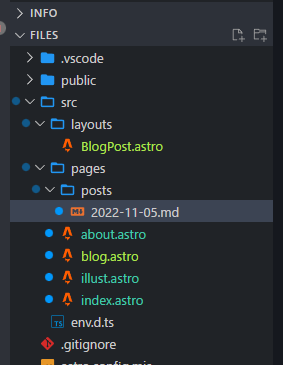
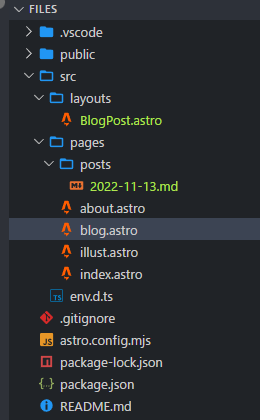
ひとまず書き上げ

diff --git a/src/pages/posts/post-8.md b/src/pages/posts/post-8.md
@@ -5,7 +5,7 @@ required_time: '15分'
 id: 8
 ---
 
-サイトにブログ記事を投稿できるようにします。
+サイトにブログ記事を投稿できるようにしてみましょう。
 
 <br>
 
@@ -13,30 +13,32 @@ id: 8
 
 ![](/image/post-8/dir.png)
 
-必要な作業は以下の通りです。
+上記の画像が完成系です。必要な作業は以下の通りです。
 
 - `src` フォルダ内に、`layouts` フォルダを作成する
 - `layouts` フォルダ内に `BlogPost.astro` ファイルを作成する
 - `pages` フォルダ内に、`posts` フォルダを作成する
-- `posts` フォルダ内に `2022-11-05.md` ファイルを作成する
-  - ファイル名は任意で大丈夫です
+- `posts` フォルダ内に `2022-11-13.md` ファイルを作成する
+  - ファイル名は任意で大丈夫です（拡張子は `.md` としてください）
 - `pages` フォルダ内に、`blog.astro` ファイルを作成する
 
 フォルダは以下のマークをクリックすることで作成できます。
 
 ![](/image/post-8/pages.png)
 
+この時点では、作成したファイルの内容は空のままで問題ありません。
+
 <br>
 
 # # ブログ記事を書く
 
-`2022-11-05.md` ファイルに内容を書き込みます。
+`2022-11-13.md` ファイルに内容を書き込みます。
 
 ~~~md
 ---
 layout: "../../layouts/BlogPost.astro"
 title: "はじめての記事"
-date: "2022-11-05"
+date: "2022-11-13"
 ---
 
 # はじめに
@@ -50,7 +52,7 @@ https://do-it-yourself.vercel.app/
 ![画像の説明](/yourself.png)
 ~~~
 
-ブログ記事はマークダウン(`.md`) 記法で書きます。マークダウン記法については、各々調べてみてください。
+ブログ記事はマークダウン(`.md`) 記法で書きます。マークダウンは、文書を記述するための言語のひとつです。記法はとてもシンプルなので、各々調べてみてください。
 
 `.md` ファイルだとページの見た目を設定できないので、`layout:` でページのレイアウトを設定するファイルを参照しています。 
 
@@ -58,9 +60,7 @@ https://do-it-yourself.vercel.app/
 
 # # レイアウトの設定
 
-先ほど作った `BlogPost.astro` ファイルを編集します。
-
-サイトに表示されるブログ記事は、このファイルを元に描画されることになります。
+先ほど作った `BlogPost.astro` ファイルを編集します。以下のコードをコピペしてください。
 
 ~~~astro
 ---
@@ -83,13 +83,14 @@ const { content: { title, date } } = Astro.props;
       <slot />
     </article>
     <br>
-    <a href="/">Home</a>
-    <a href="/blog">Blog</a>
+    <a href="/blog">blog</a>
 	</body>
 </html>
 ~~~
 
-`const { content: { title, date } } = Astro.props;` で `.md` ファイルから `title` と `date` の情報を受け取っています。 
+サイトに表示されるブログ記事は、このファイルを元に描画されることになります。
+
+`const { content: { title, date } } = Astro.props;` で `.md` ファイルに書いた `title` と `date` の情報を受け取っています。 
 
 `<slot />` のところに、`.md` ファイルに書いた本文が埋め込まれます。
 
@@ -123,7 +124,7 @@ const allPosts = await Astro.glob('../pages/posts/*.md')
 </html>
 ~~~
 
-`const allPosts = await Astro.glob('../pages/posts/*.md')` では `posts` フォルダにあるマークダウン形式のファイルを全て読み込んでいます。
+`const allPosts = await Astro.glob('../pages/posts/*.md')` で、 `posts` フォルダにあるマークダウン形式のファイルを全て読み込んでいます。
 
 それをループを回して、リスト形式で並べている... みたいなことをやっています。これは呪文のようなものなので、理解しなくても大丈夫なやつです。
 
@@ -146,7 +147,7 @@ const allPosts = await Astro.glob('../pages/posts/*.md')
 		<link rel="icon" type="image/svg+xml" href="/favicon.svg" />
 		<meta name="viewport" content="width=device-width" />
 		<meta name="generator" content={Astro.generator} />
-		<title>Astro</title>
+		<title>n1sym Page</title>
 		<style >
 		</style>
 	</head>
@@ -170,4 +171,4 @@ const allPosts = await Astro.glob('../pages/posts/*.md')
 
 # # 公開しているページに変更を反映させる
 
-記事が表示されていることが確認できたら、Commit ボタンで公開ページにも反映させてみましょう。
+記事が表示されていることが確認できたら、Commit ボタンをクリックして公開ページにも反映させてみましょう。

diff --git a/src/pages/posts/post-9.md b/src/pages/posts/post-9.md
@@ -1,26 +1,125 @@
 ---
 layout: "../../layouts/BlogPost.astro"
-title: 'サイトのURLを変更する'
-required_time: '5分'
+title: 'デザインを調整する'
+required_time: '15分'
 id: 9
 ---
 
-サイトのURLは変更することができます。
+最後に、全体のデザインを調整してみましょう。
 
-https://vercel.com/dashboard から今回作ったプロジェクトを選択します。
+<br>
 
-画面左上あたりにある Settings を選択します。
+# # ページ全体にスタイルを当てる準備
 
-![](/image/post-9/settings.png)
+ページ全体にスタイルを当てるために、新しいファイルを作成します。
 
-左メニューの Domains を選択し、ドメインパネルの Edit ボタンをクリックします。
+- `src` フォルダ内に、`styles` フォルダを作成する
+- `styles` フォルダ内に `global.css` ファイルを作成する
 
-![](/image/post-9/edit.png)
+![](/image/post-9/styles.png)
 
-編集メニューが開くので、Domain (URL) を変更してみます。
+そして、`global.css` に書いた設定を各ページに適用するため、
 
-ただし、`.vercel.app` のところは変更できないのでご注意ください
+`import '../styles/global.css';` というコードを、
 
-![](/image/post-9/domain.png)
+`index.astro`, `about.astro`, `blog.astro`, `illust.astro`, `BlogPost.astro` の
 
-Save ボタンを押して変更を反映させます。
+2行目（`---` と `---` の間）に追記します。
+
+~~~astro
+---
+import '../styles/global.css';
+---
+~~~
+
+<br>
+
+# # デザインの調整
+
+`global.css` を編集します。
+
+~~~css
+body {
+	margin: auto;
+	padding: 20px;
+	max-width: 720px;
+	text-align: left;
+	background-color: #fff;
+	word-wrap: break-word;
+	overflow-wrap: break-word;
+	line-height: 1.5;
+	color: rgb(27, 26, 26);
+}
+
+img {
+	max-width: 100%;
+	height: auto;
+}
+
+blockquote {
+	border-left: 3px solid #999;
+	color: rgb(71, 71, 71);
+	padding: 2px 0px 2px 20px;
+	margin: 0px;
+	font-style: italic;
+}
+~~~
+
+それぞれの項目を見ていきます。
+
+# ## body
+
+まずは `<body>` タグに当てるスタイルについてです。`<body>` タグはざっくりとページの内容全てを表しているので、ここで設定したスタイルはページ全体に適用されます。
+
+各要素の意味は以下のような感じです。
+
+- `margin` : 外側の余白。`auto` を指定するとよしなに調整してくれる
+- `padding` : 内側の余白
+- `max-width` : 最大幅。このサイズ以上にはならない
+- `text-align` : 要素の寄せ。今回は左寄せ(`left`) を指定
+- `background-color` : 背景色
+- `word-wrap`: 文字の折り返しタイミングの設定
+- `overflow-wrap`: 文字の折り返しタイミングの設定
+- `line-height`: 文字の高さ
+- `color`: 文字の色
+
+ブラウザ上でカラーコードにカーソルを合わせると、カラーパレットが表示されるのでそこで色を設定することもできます。
+
+![](/image/post-9/color.png)
+
+# ## img
+
+`<img>` タグは画像に関するタグです。
+
+~~~css
+img {
+	max-width: 100%;
+	height: auto;
+}
+~~~
+
+初期設定のままだと、大きい画像がそのまま表示されてしまいます。`body` のスタイルで設定した最大幅 (`max-width`) に合わせて自動でリサイズされるようになってほしいので、上記の設定を行っています。
+
+# ## blockquote
+
+`<blockquote>` は引用を表現するタグです。初期設定だとインデントされるだけなので、それっぽいデザインにしておきます。
+
+![](/image/post-9/blockquote.png)
+
+~~~css
+blockquote {
+	border-left: 3px solid #999;
+	color: rgb(71, 71, 71);
+	padding: 2px 0px 2px 20px;
+	margin: 0px;
+	font-style: italic;
+}
+~~~
+
+<br>
+
+# # 公開しているページに変更を反映させる
+
+スタイルは無限にこだわることができるので、一旦ここまでにしておきます。
+
+Commit ボタンをクリックして公開ページにも反映させてみましょう。

diff --git a/src/pages/posts/post-6.md b/src/pages/posts/post-6.md
@@ -39,12 +39,15 @@ id: 6
 	<body>
 		<h1>About</h1>
 		<p>n1sym と申します。</p>
+    <p><a href="https://twitter.com/n1sym">Twitter</a> をやっています。</p> 
     <a href="/">Home</a>
 	</body>
 </html>
 ~~~
 
-ちょっとややこしいのですが、`href="/"` は `index.astro` へのリンクを表しています。
+`<a>` タグはリンクを表すものです。`href` でURLを指定することができます。
+
+ちょっとややこしいのですが、`href="/"` の `/` は `index.astro` を指しています。つまりこれはトップページへのリンクになっています。
 
 `index.astro` にもページ内リンクを配置します。
 
@@ -57,7 +60,7 @@ id: 6
 		<link rel="icon" type="image/svg+xml" href="/favicon.svg" />
 		<meta name="viewport" content="width=device-width" />
 		<meta name="generator" content={Astro.generator} />
-		<title>Astro</title>
+		<title>n1sym Page</title>
 		<style>
 		</style>
 	</head>
@@ -75,4 +78,4 @@ id: 6
 
 # # 公開しているページに変更を反映させる
 
-新しいページを作成できたら、Commit ボタンで公開ページにも反映させてみましょう。
+新しいページを作成できたら、Commit ボタンをクリックして公開ページにも反映させてみましょう。

diff --git a/src/pages/posts/post-11.md b/src/pages/posts/post-11.md
@@ -1,0 +1,26 @@
+---
+layout: "../../layouts/BlogPost.astro"
+title: 'おわりに'
+required_time: '1分'
+id: 11
+---
+
+これにて終了です。お疲れさまでした！
+
+いかがでしたでしょうか。個人サイト制作は本当に奥が深く、やろうと思えば本当に色々なことができます。
+
+こんなことがやりたいけど、どうやればいいのか分からない...といったようなことがありましたら、お気軽にコメント欄に書き込みください。
+
+<br>
+
+# # おまけ話
+
+このページは https://diy-anime.com/ に影響されて製作されました。
+
+> DIYとは、お金を払って他者（業者）にやらせるのではなく、自身で（つまり自分の身体を使って）何かを作ったり、修理したり、装飾したりする活動のことである。「自分でできることは自分でやろう」という理念のもとに行う諸活動である。
+
+DIY というと家具作りなどが連想されますが、個人サイト作りも立派な DIY だと思います。
+
+このページを通して、モノ作りの楽しさを感じてもらえたら、とても嬉しく思います。
+
+そしてDIYアニメはとても良い作品なので、おすすめです。

diff --git a/src/pages/posts/post-1.md b/src/pages/posts/post-1.md
@@ -57,6 +57,6 @@ https://astro.new/minimal?on=stackblitz
 </html>
 ~~~
 
-この内容は、右側のプレビューされている画面と対応しています。つまり、今のプレビュー画面は `index.astro` の内容を表示しているということになります。
+この内容は、右側のプレビューされている画面と対応しています。つまり、今のプレビュー画面は `index.astro` の内容を表示しているということです。
 
-`<h1>Astro</h1>` の Astro という文字を任意の文字に変更してみましょう。プレビュー画面に内容が反映されるはずです。（その他の htmlタグについては今は考えなくても大丈夫です）
+`<h1>Astro</h1>` の Astro という文字を任意の文字に変更してみましょう。プレビュー画面に内容が反映されるはずです。

diff --git a/src/pages/posts/post-10.md b/src/pages/posts/post-10.md
@@ -1,8 +1,26 @@
 ---
 layout: "../../layouts/BlogPost.astro"
-title: 'おわりに'
+title: 'サイトのURLを変更する'
 required_time: '5分'
 id: 10
 ---
 
-作成中 ...
+サイトのURLは変更することができます。
+
+https://vercel.com/dashboard から今回作ったプロジェクトを選択します。
+
+画面左上あたりにある Settings を選択します。
+
+![](/image/post-10/settings.png)
+
+左メニューの Domains を選択し、ドメインパネルの Edit ボタンをクリックします。
+
+![](/image/post-10/edit.png)
+
+編集メニューが開くので、Domain (URL) を変更してみましょう。
+
+ただし、`.vercel.app` のところは変更できないのでご注意ください
+
+![](/image/post-10/domain.png)
+
+Save ボタンを押して変更を反映させます。

diff --git a/src/pages/posts/post-7.md b/src/pages/posts/post-7.md
@@ -59,15 +59,14 @@ id: 7
 		<link rel="icon" type="image/svg+xml" href="/favicon.svg" />
 		<meta name="viewport" content="width=device-width" />
 		<meta name="generator" content={Astro.generator} />
-		<title>Astro</title>
+		<title>n1sym Page</title>
 		<style>
 		</style>
 	</head>
 	<body>
 		<h1>n1sym</h1>
 		<p>ここは n1sym の個人サイトです。</p>
-		<a href="/about">about</a>
-		<a href="/illust">illust</a>
+		<a href="/about">about</a> / <a href="/illust">illust</a>
 	</body>
 </html>
 ~~~
@@ -78,4 +77,4 @@ id: 7
 
 # # 公開しているページに変更を反映させる
 
-画像が表示出来たら、Commit ボタンで公開ページにも反映させてみましょう。
+画像が表示出来たら、Commit ボタンをクリックして公開ページにも反映させてみましょう。

diff --git a/src/pages/posts/post-3.md b/src/pages/posts/post-3.md
@@ -54,4 +54,4 @@ STATUS が Ready になっていたら、サイトが公開されています。
 
 stackblitz のプレビュー画面に表示されていたようなページが確認できると思います。
 
-これにてひとまず、自分だけのサイトが作成できました。
+これにて、自分のサイトが公開できました！

diff --git a/src/pages/posts/post-0.md b/src/pages/posts/post-0.md
@@ -26,4 +26,4 @@ https://github.com/join
 
 アカウントを作成したら、登録したメールアドレスに確認メールが届きます。
 
-メール認証が完了したら、準備はOKです。
+メール認証を完了して、GitHub にログインできることを確認できたら準備はOKです。
